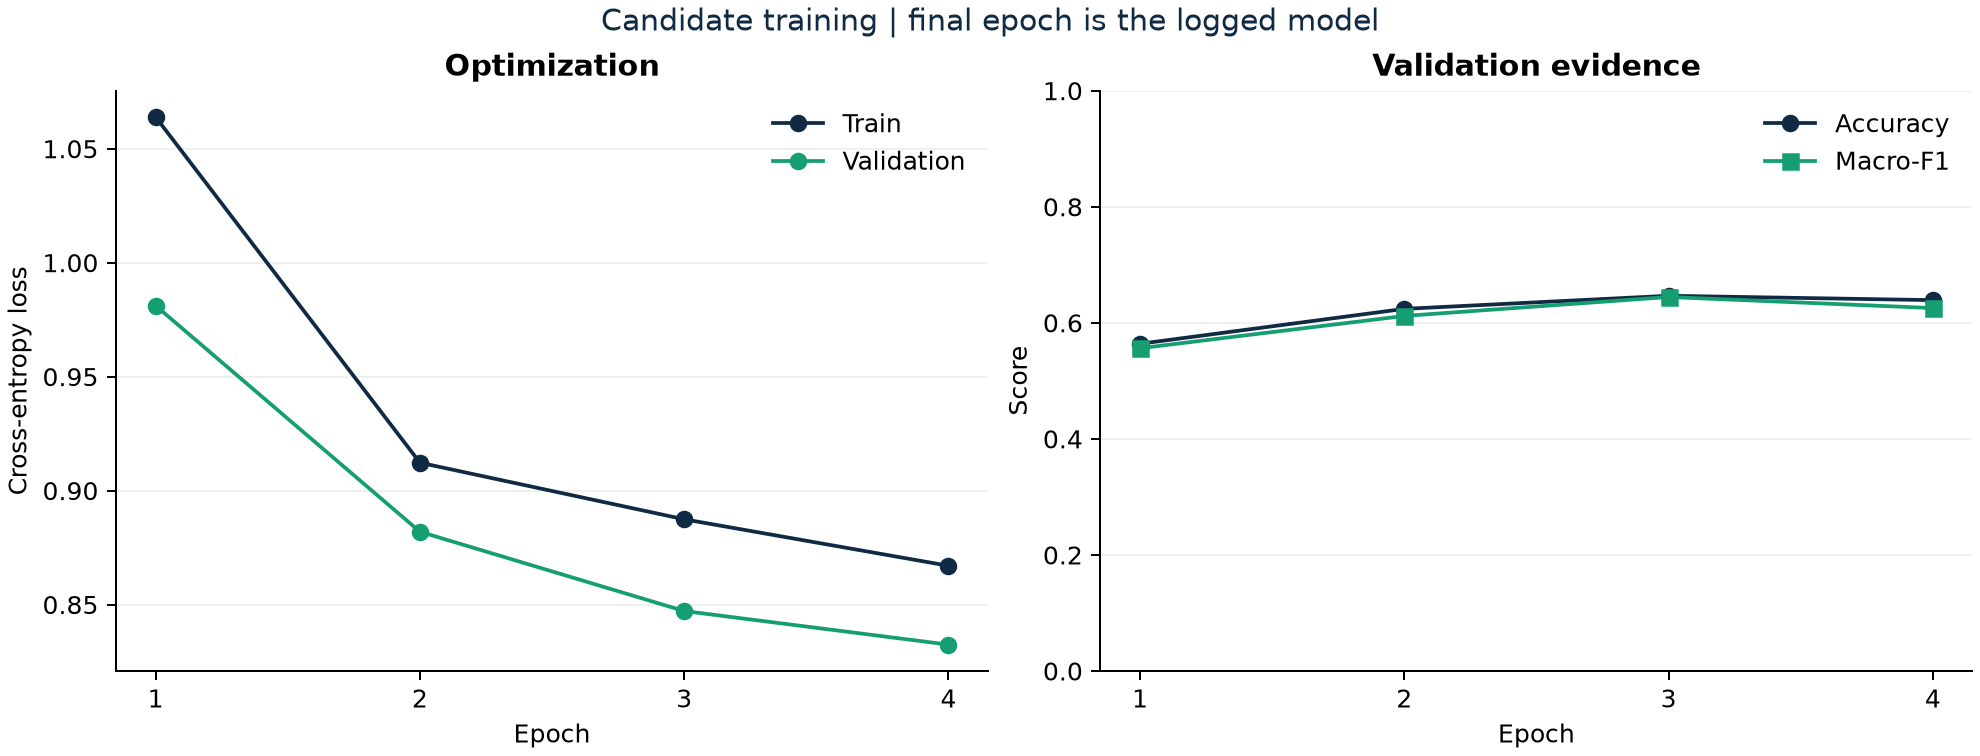
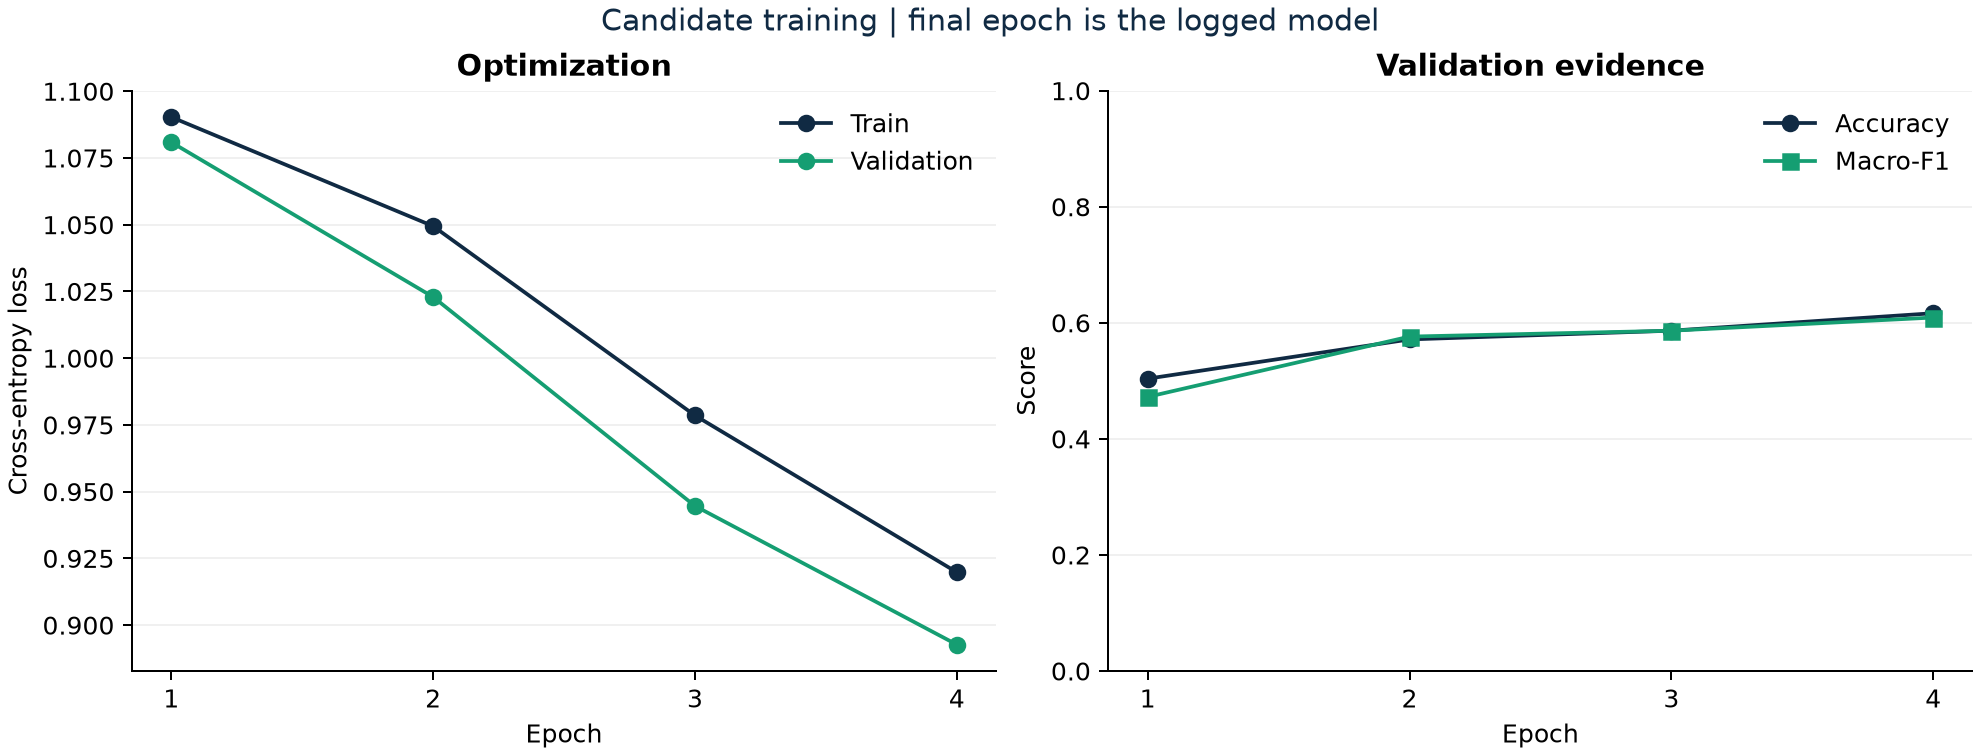
Record Run B and the recomputation checks

diff --git a/LAB_REPORT.md b/LAB_REPORT.md
@@ -153,3 +153,43 @@ Stage 'train' didn't change, skipping
 ```
 
 `reports/data_quality.json` stayed byte-identical (`cmp`), so PREPARE and TRAIN were skipped. The comment stays in place.
+
+### 6.4 Run B - learning rate 0.0003
+
+`params.yaml` changed to `train.learning_rate: 0.0003` and committed alone, then `uv run --locked dvc repro train`.
+
+**Run B MLflow Run ID: `3d40acc0260b4c7aa5f24cf5b2b2dc89`.** Final epoch: val_acc 0.6165, val_macro_f1 0.6091, val_loss 0.8927 (epoch-1 macro-F1 was only 0.4723).
+
+Observed DVC behaviour (all checks use `dvc repro train`, so EVALUATE was never started):
+
+| Check | VALIDATE | PREPARE | TRAIN | EVALUATE |
+|---|---|---|---|---|
+| 1. Rerun, nothing changed | REUSED | REUSED | REUSED | NOT RUN |
+| 2. Comment in `src/validate_data.py` | RERUN | REUSED | REUSED | NOT RUN |
+| 3. `train.learning_rate` 0.001 -> 0.0003 | REUSED | REUSED | RERUN | NOT RUN |
+
+Terminal lines:
+
+```
+# Check 1
+Stage 'validate' didn't change, skipping
+Stage 'prepare' didn't change, skipping
+Stage 'train' didn't change, skipping
+Data and pipelines are up to date.
+
+# Check 2
+Running stage 'validate':
+> uv run --locked python -m src.validate_data
+Stage 'prepare' didn't change, skipping
+Stage 'train' didn't change, skipping
+
+# Check 3
+Stage 'validate' didn't change, skipping
+Stage 'prepare' didn't change, skipping
+Running stage 'train':
+> uv run --locked python -m src.train
+```
+
+**Comparison with the predictions (6.1).** Setting change: VALIDATE REUSED, PREPARE REUSED, TRAIN RERUN, as predicted. File edit in `validate_data.py`: VALIDATE RERUN, PREPARE REUSED (the report hash was unchanged), TRAIN REUSED, as predicted. README row and `image_size` row were not executed (predictions only). For EVALUATE the predictions said REUSED / NEEDS UPDATE, whereas the table says NOT RUN: that is only because `dvc repro train` never touches EVALUATE; with a full `dvc repro`, DVC would also have judged it REUSED for check 3 (no dependency changed). No difference in substance.
+
+**Learning-rate expectation vs result.** Predicted: slower convergence, higher final val loss, lower or equal accuracy/F1. Observed: B has val_loss 0.8927 vs 0.8324, accuracy 0.6165 vs 0.6391 and macro-F1 0.6091 vs 0.6254, so the prediction is supported (the small step size is simply too small for only 4 epochs); the gap is small though.
